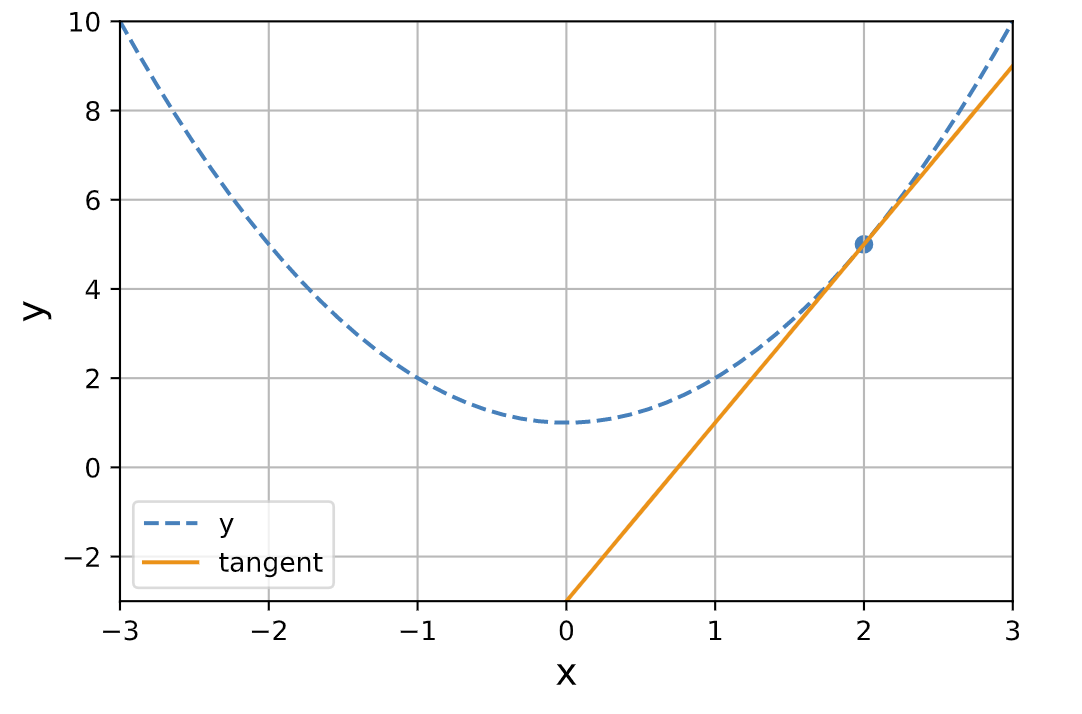
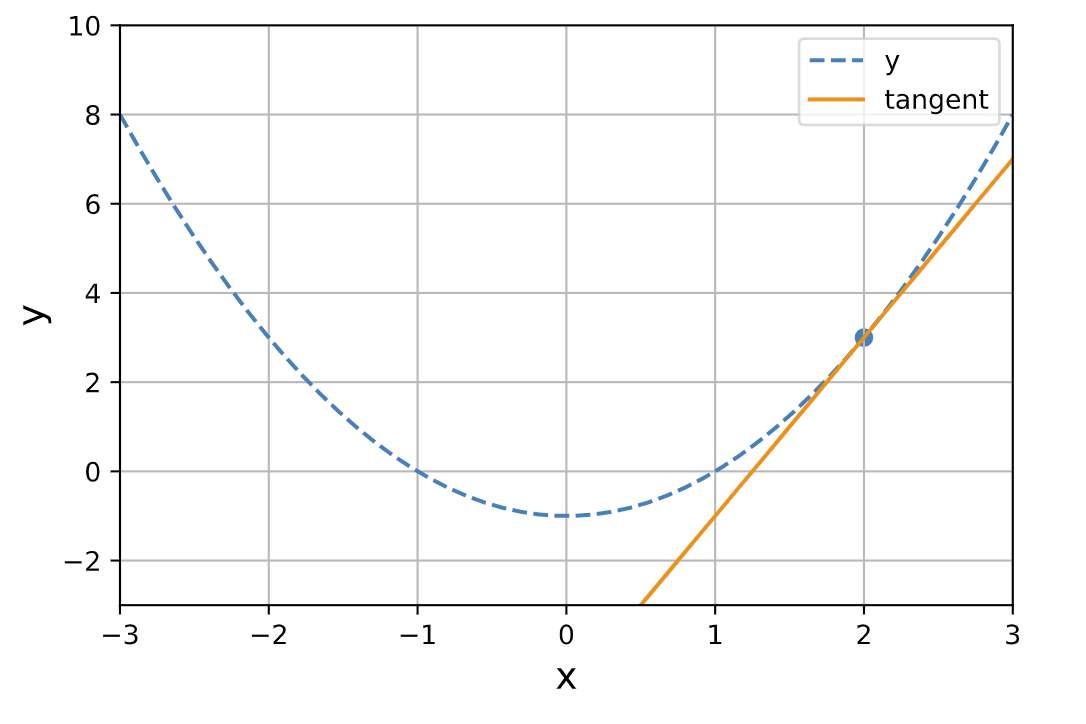
ee

diff --git a/markdown/blog/README.md b/markdown/blog/README.md
@@ -23,6 +23,16 @@
 - TOC
   - [:contents]
 
+
+```html
+<details><summary>サンプルコード</summary><div>
+
+\```rb
+puts 'Hello, World'
+\```
+</div></details>
+```
+
 ### 数式ちょっと独特
 [tex:
 \int V _ {in}(s)e^{st}ds = \frac{1}{RC}\int V _ {out}(s)\left(\int _ {-\infty} ^{t} e ^{st'}dt'\right)ds + \int V _ {out}(s)e ^{st}ds

diff --git a/markdown/blog/python_tangent.md b/markdown/blog/python_tangent.md
@@ -54,8 +54,8 @@ def tangent(func, x, a):
 ```python
 import matplotlib.pyplot as plt
 
-def quad_func(x):  # y=x^2+1を表す関数
-    y = x**2 + 1
+def quad_func(x):  # y=x^2-1を表す関数
+    y = x**2 - 1
     return y
 
 def tangent(func, x, a):
